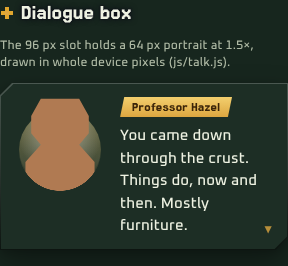
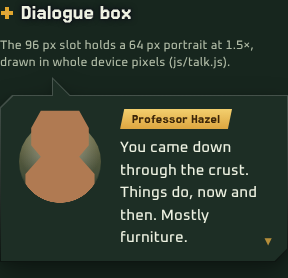
Dialogue box as a speech bubble (owner's ask): the bubble outline with its tail over the portrait; only the bubble moves, floating, wiggling and breathing on three loops of different lengths (motion.css m-bubble-*: a pixel or two, a third of a degree, under 2%), and each new line pops it (talk.js, a
Claude-Session: https://claude.ai/code/session_019pvqvCPJJjAPyF2KoN6qom

diff --git a/game/css/dialogue.css b/game/css/dialogue.css
@@ -9,26 +9,35 @@
   align-items: start;
   gap: var(--s4);
   padding: var(--s4);
-  /* UI-2: a panel with two cuts; the shadow follows the cuts, the fill and edge line are the pseudo-elements */
+  /* UI-2: a speech bubble: the panel's two cuts and a tail on its top edge over the portrait; the shadow follows
+     the outline, the fill and edge line are the pseudo-elements. Only the bubble moves: it floats, wiggles and
+     breathes on three loops of different lengths (motion.css m-bubble-*), and pops a little with each new line
+     (talk.js), while the words and the pixel-art portrait stay still and crisp */
   border: 0;
   border-radius: 0;
   background: none;
   box-shadow: none;
   filter: var(--drop-float);
   isolation: isolate;
+  transform-origin: 58px 0;
 }
 .talk-box::before,
 .talk-box::after {
   content: '';
   position: absolute;
-  inset: 0;
+  inset: calc(-1 * var(--bubble-tail, 18px)) 0 0 0;
   z-index: var(--z-below);
-  clip-path: var(--clip-panel);
+  clip-path: var(--clip-bubble);
   background: var(--g-solid);
   pointer-events: none;
+  transform-origin: 58px var(--bubble-tail, 18px);
+  animation:
+    m-bubble-float 5.3s ease-in-out infinite,
+    m-bubble-wiggle 7.9s ease-in-out infinite,
+    m-bubble-breathe 4.1s ease-in-out infinite;
 }
 .talk-box::after {
-  clip-path: var(--edge-panel);
+  clip-path: var(--edge-bubble);
   background: var(--edge);
 }
 /* UI-2: the portrait's circle sits behind, and the head breaks out of its top: the picture shows whole above the
@@ -98,7 +107,7 @@
 .talk-choices {
   position: absolute;
   right: 0;
-  bottom: calc(100% + var(--s3));
+  bottom: calc(100% + var(--s3) + var(--bubble-tail, 18px));
   display: grid;
   gap: var(--s2);
   min-width: min(240px, 100%);

diff --git a/game/css/motion.css b/game/css/motion.css
@@ -156,6 +156,41 @@
     mask-position: 100% 0;
   }
 }
+/* bubble (UI-2): the dialogue box's bubble floats, wiggles and breathes, each on its own period (dialogue.css) so the
+   three never line up the same way twice; a pixel or two, a third of a degree, a couple of percent */
+@keyframes m-bubble-float {
+  0%,
+  100% {
+    translate: 0 0;
+  }
+  30% {
+    translate: 1px -2px;
+  }
+  65% {
+    translate: -1px -1px;
+  }
+}
+@keyframes m-bubble-wiggle {
+  0%,
+  100% {
+    rotate: 0deg;
+  }
+  25% {
+    rotate: 0.35deg;
+  }
+  75% {
+    rotate: -0.3deg;
+  }
+}
+@keyframes m-bubble-breathe {
+  0%,
+  100% {
+    scale: 1 1;
+  }
+  50% {
+    scale: 1.008 1.018;
+  }
+}
 /* the screens and the sheets use it (the older slide-ins in v05.css and polish.css are replaced here; the Map tab's
    screen keeps no animation, screens.css) */
 .screen.enter,
@@ -182,7 +217,9 @@
   .m-float {
     animation: m-fade 120ms linear both !important;
   }
-  .m-idle {
+  .m-idle,
+  .talk-box::before,
+  .talk-box::after {
     animation: none !important;
   }
   .m-press:active {
@@ -204,7 +241,9 @@
   ) {
   animation: m-fade 120ms linear both !important;
 }
-[data-motion='reduced'] .m-idle {
+[data-motion='reduced'] .m-idle,
+[data-motion='reduced'] .talk-box::before,
+[data-motion='reduced'] .talk-box::after {
   animation: none !important;
 }
 [data-motion='reduced'] .m-press:active {

diff --git a/studio/gallery.html b/studio/gallery.html
@@ -132,7 +132,7 @@
 </section>
 
 <section class="g-sec" data-shot="dialogue"><h2>Dialogue box</h2><p>The 96 px slot holds a 64 px portrait at 1.5×, drawn in whole device pixels (js/talk.js).</p>
-  <div class="talk-box g-local" style="width:100%;position:relative"><span class="talk-slot"><i class="g-sprite" style="--c1:#b07a52;width:96px;height:96px"></i></span><div class="talk-txt"><p class="talk-who">Professor Hazel</p><p class="talk-line">You came down through the crust. Things do, now and then. Mostly furniture.</p></div><span class="talk-more" style="opacity:.8">▼</span></div>
+  <div class="talk-box g-local" style="width:100%;position:relative;margin-top:var(--s5)"><span class="talk-slot"><i class="g-sprite" style="--c1:#b07a52;width:96px;height:96px"></i></span><div class="talk-txt"><p class="talk-who">Professor Hazel</p><p class="talk-line">You came down through the crust. Things do, now and then. Mostly furniture.</p></div><span class="talk-more" style="opacity:.8">▼</span></div>
 </section>
 
 <section class="g-sec" data-shot="battle"><h2>Battle cards</h2><p>In the 3D scene they float under the one choosing; here they sit still.</p>

diff --git a/game/js/talk.js b/game/js/talk.js
@@ -112,6 +112,7 @@ export function talkLine(who, text, expr, o = {}) {
     expr = expr || m[1];
     text = text.slice(m[0].length);
   }
+  const shown = !el.hidden;
   el.hidden = false;
   el.classList.toggle('in-cs', !!o.cs);
   el.classList.toggle('scrim', !!o.scrim);
@@ -121,6 +122,13 @@ export function talkLine(who, text, expr, o = {}) {
   el.querySelector('.talk-who').textContent = o.name || talkName(who);
   box.classList.remove('done');
   line.textContent = '';
+  /* UI-2: each new line in an open box, the bubble pops a little: a squash, then a spring back (the `scale`
+     property, so the box's own transform stays) */
+  if (shown && !reducedMotion && box.animate)
+    box.animate([{ scale: '0.975 0.95' }, { scale: '1 1' }], {
+      duration: 360,
+      easing: 'cubic-bezier(0.3, 1.6, 0.5, 1)',
+    });
   talkBox.on = true;
   talkBox.por = { who, expr: expr || null, t: 0 };
   if (!talkBox.loop) {
